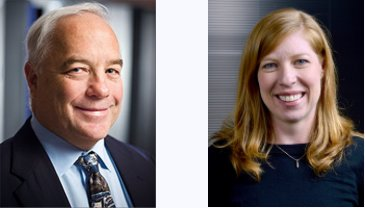
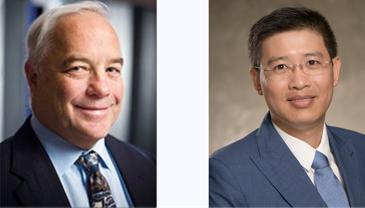
deploy: defd7a19fe7f7f6990e5d969e3eb96c63a463266

diff --git a/about/people/index.html b/about/people/index.html
@@ -409,7 +409,7 @@
 
     
       <div class="card-description">
-        <p><a href="https://siebelschool.illinois.edu/about/people/faculty/wtkramer">Bill Kramer</a>, <a href="https://newfrontiers.illinois.edu/about/leadership">Kjellrun Olson</a></p>
+        <p><a href="https://siebelschool.illinois.edu/about/people/faculty/wtkramer">Bill Kramer</a>, <a href="https://experts.illinois.edu/en/persons/phuong-minh-cao/">Phuong Cao</a></p>
       </div>
     
 
